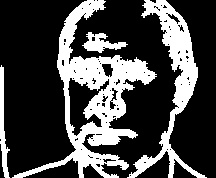
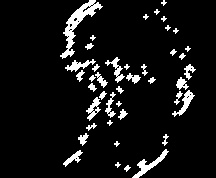
Added function to remove small borders

Changed region(s): [[0.0, 0.0, 0.9722, 1.0]]

diff --git a/src/main/java/lab/LabOneCV.java b/src/main/java/lab/LabOneCV.java
@@ -18,7 +18,9 @@ public class LabOneCV {
 
         Mat borderImage = labOneCV.borderSelection(currentImage);
 
-        Mat resultContourRed = labOneCV.contourReduction(borderImage);
+        Mat deleteSmallBorders = labOneCV.deleteSmallBorders(borderImage);
+
+        Mat resultContourRed = labOneCV.contourReduction(deleteSmallBorders);
 
         labOneCV.dilate(resultContourRed);
 
@@ -95,6 +97,19 @@ public class LabOneCV {
         Imgproc.Canny(originalImage,result, 50, 100);
         saveImage(result, "border");
         return result;
+    }
+
+    public Mat deleteSmallBorders(Mat image){
+        //  Opening
+        Mat resultOpen = new Mat(image.rows(), image.cols(), image.type());
+        Imgproc.morphologyEx(image, resultOpen, Imgproc.MORPH_OPEN,Imgproc.getStructuringElement(Imgproc.MORPH_CROSS, new Size(2,2)));
+
+        //  Closing
+        Mat resultClose = new Mat();
+        Imgproc.morphologyEx(resultOpen, resultClose, Imgproc.MORPH_CLOSE,Imgproc.getStructuringElement(Imgproc.MORPH_RECT, new Size(2,2)));
+
+        saveImage(resultClose, "deleteSmallBorders");
+        return resultClose;
     }
 
     public Mat contourReduction(Mat image){
